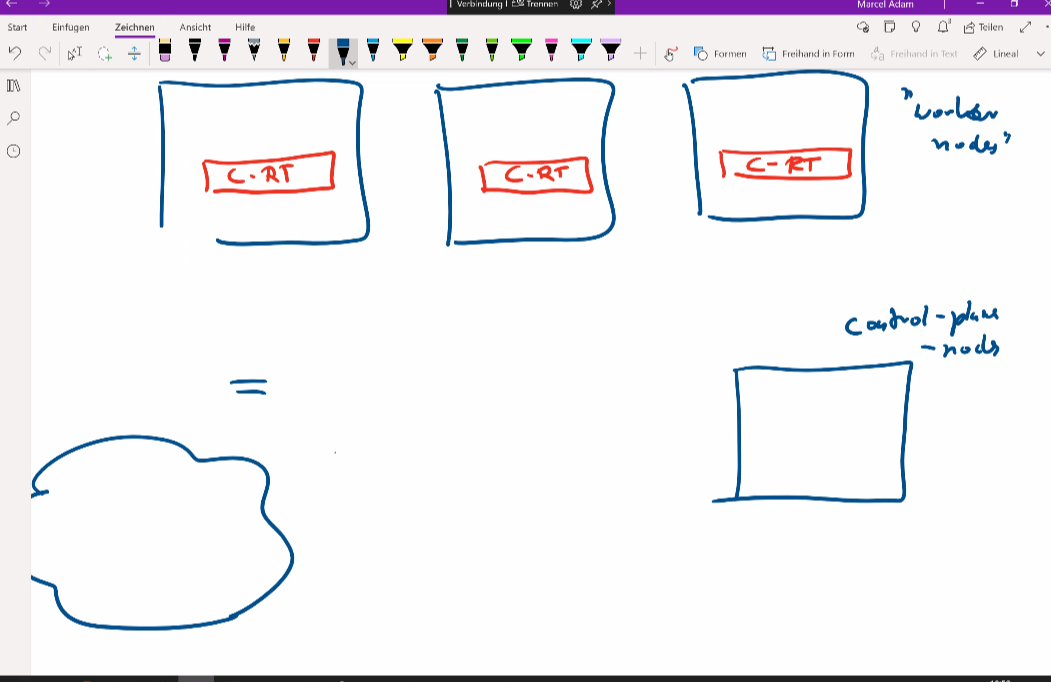
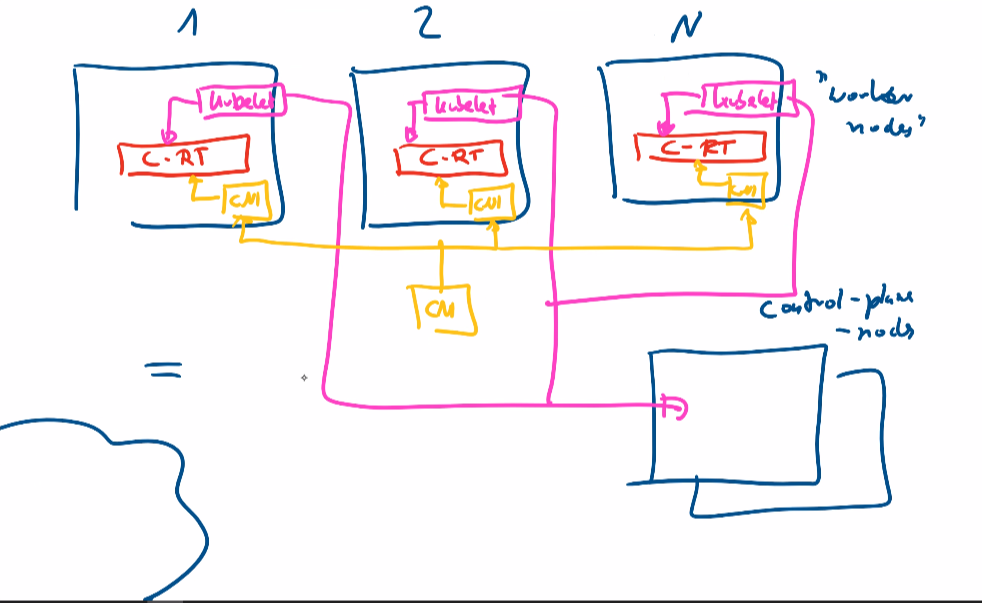
GITBOOK-4: No subject

diff --git a/was-ist-cni.md b/was-ist-cni.md
@@ -4,21 +4,21 @@ description: Ohne CNI kein Kubernetes -> Wie läuft der Verkehr über das Netzwe
 
 # Was ist CNI
 
-<figure><img src=".gitbook/assets/image (3).png" alt=""><figcaption></figcaption></figure>
+<figure><img src=".gitbook/assets/image (1) (1).png" alt=""><figcaption></figcaption></figure>
 
 Worker nodes sollen die Arbeitslast der Kunden haben 1 - N
 
-<figure><img src=".gitbook/assets/image (4).png" alt=""><figcaption></figcaption></figure>
+<figure><img src=".gitbook/assets/image (2) (1).png" alt=""><figcaption></figcaption></figure>
 
 
 
 in den Pods laufen die C-RT (Control Runtime) und Kubelet -> Orchastriert die lokale Runtime und Kubelet spricht mit der Control plane node für die Orchestrierung
 
-<figure><img src=".gitbook/assets/image (5).png" alt=""><figcaption></figcaption></figure>
+<figure><img src=".gitbook/assets/image (3).png" alt=""><figcaption></figcaption></figure>
 
 Die CNI kümmert sich mit der Container Runtime das der Pod einen Port erhält.
 
-<figure><img src=".gitbook/assets/image (6).png" alt=""><figcaption></figcaption></figure>
+<figure><img src=".gitbook/assets/image (4).png" alt=""><figcaption></figcaption></figure>
 
 Diese können auch untereinander mit den Pods kommunizieren. Ohne das können die Nodes nicht miteinander kommunizieren.
 
